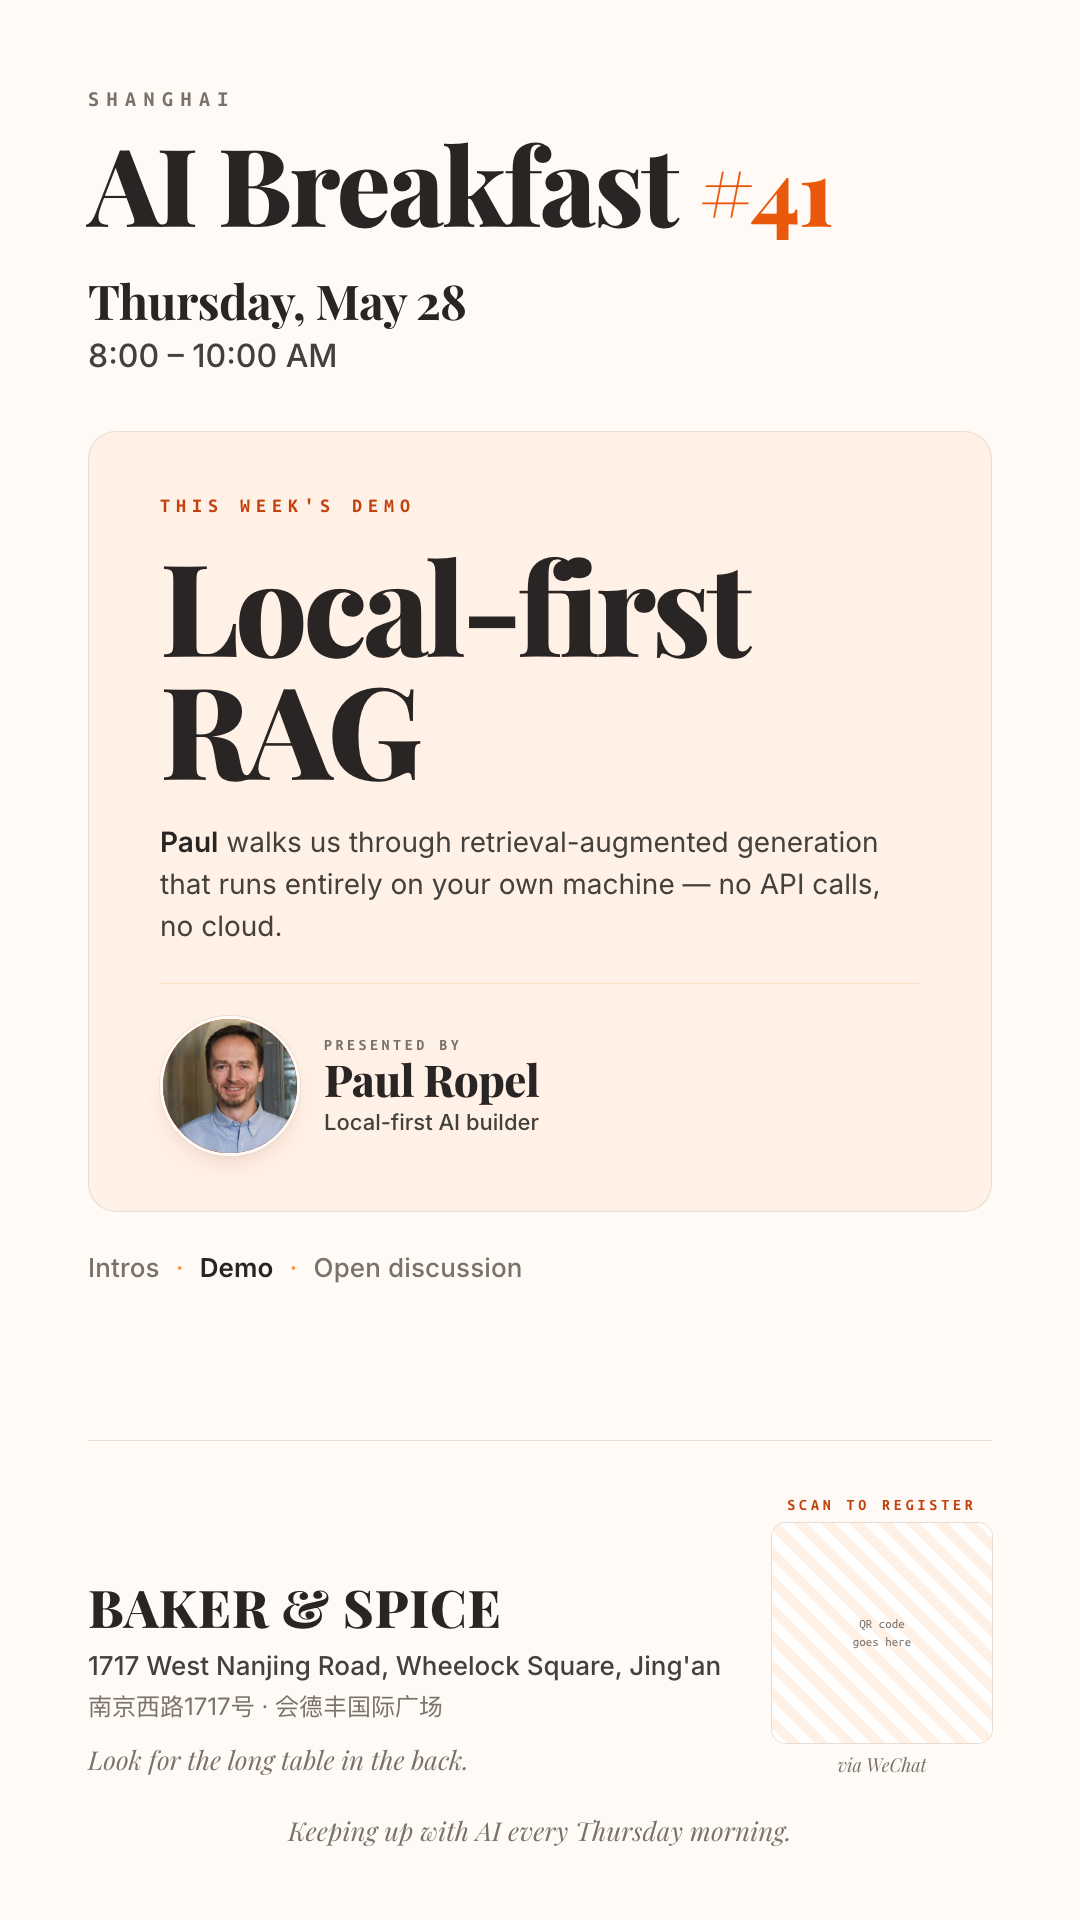
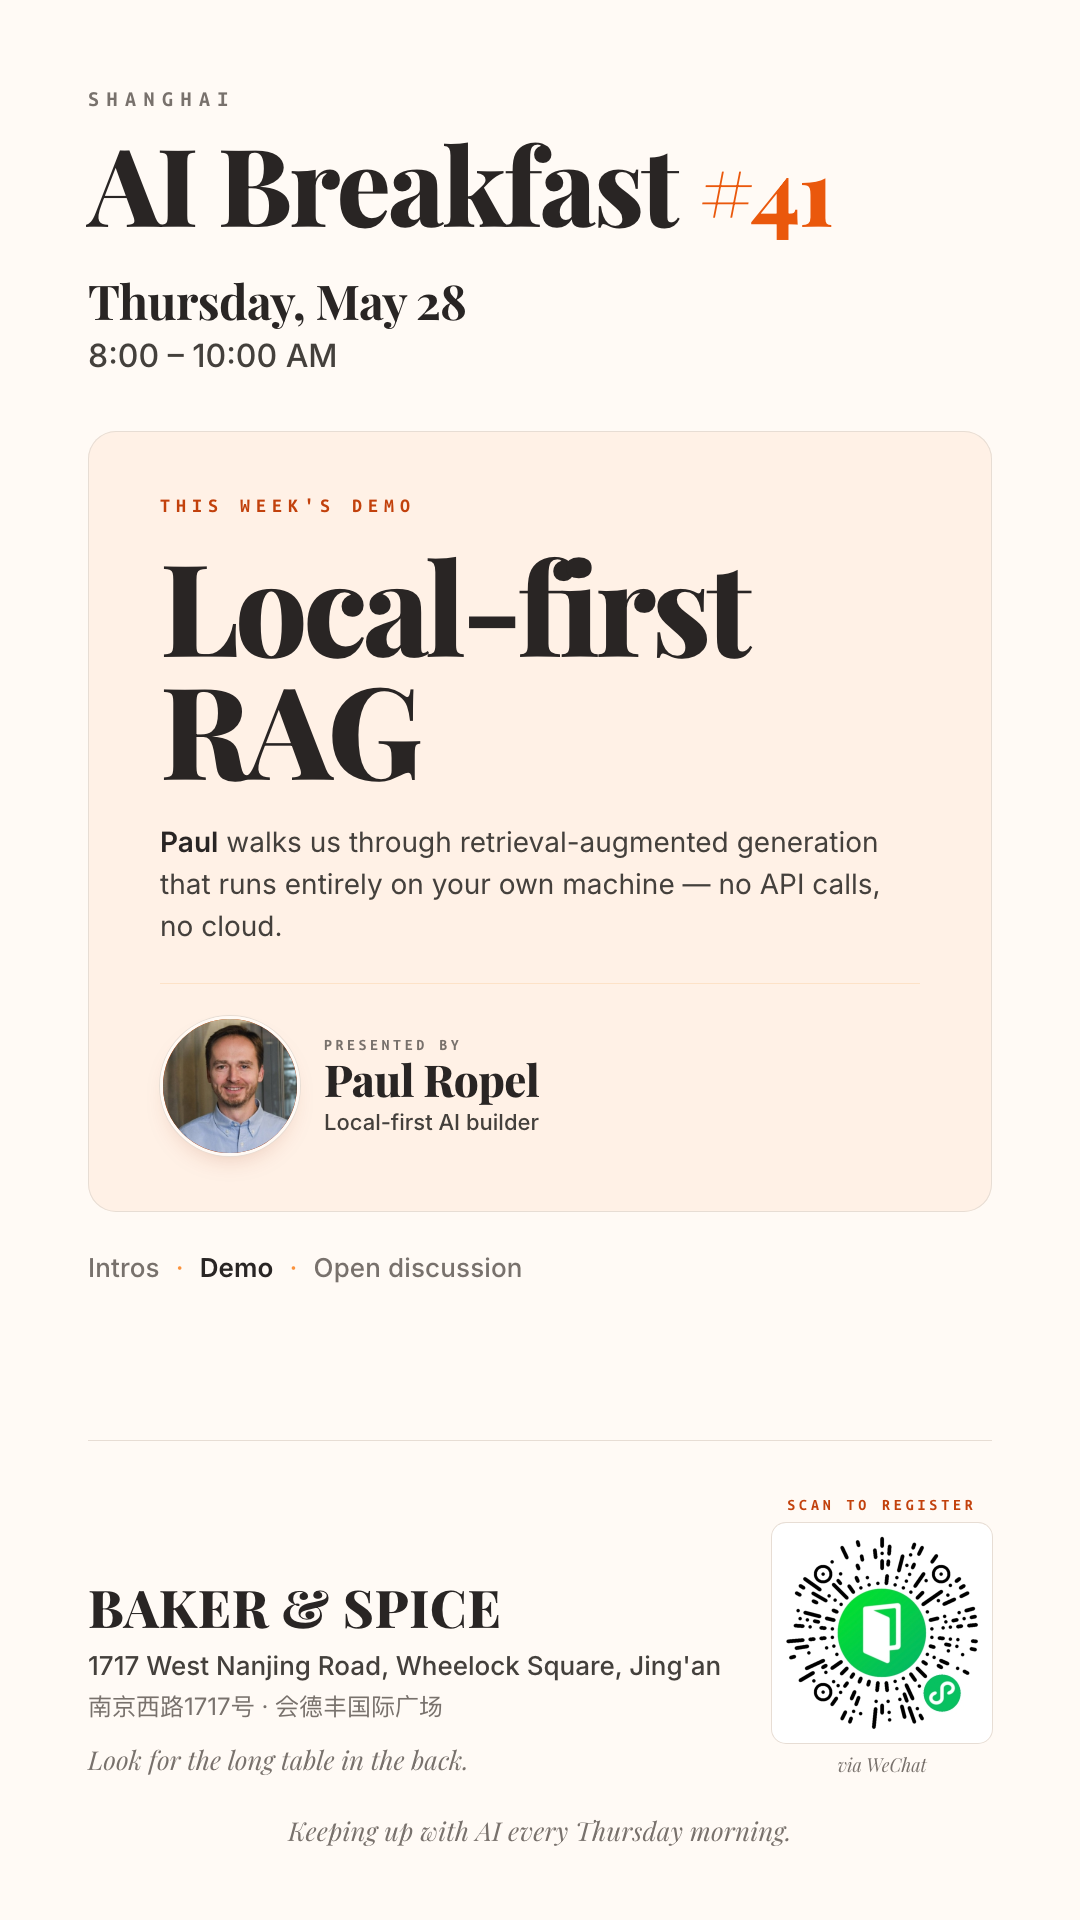
Wire #41 huodongxing QR into poster-with-qr
Skeleton event went live on huodongxing as ID 3862355374500. After the
mandatory ~10-min QR-generation wait, downloaded the WeChat mini-program
QR and re-rendered poster-qr.html with a real <img> in place of the
hatched placeholder. The PNG was also imported to Apple Photos for
WeChat sharing.

Changed region(s): [[0.7028, 0.7812, 0.9167, 0.9062]]

diff --git a/events/2026/ai-breakfast-41/poster-qr.html b/events/2026/ai-breakfast-41/poster-qr.html
@@ -345,8 +345,7 @@
           </div>
           <div class="qr-block">
             <div class="qr-label">Scan to register</div>
-            <!-- Drop the downloaded QR into images/qr-codes/wechat-mini-program.png and swap the placeholder for an <img> tag. -->
-            <div class="qr-placeholder">QR code<br/>goes here</div>
+            <img src="images/qr-codes/wechat-mini-program.png" alt="Register QR" />
             <div class="qr-hint">via WeChat</div>
           </div>
         </div>
